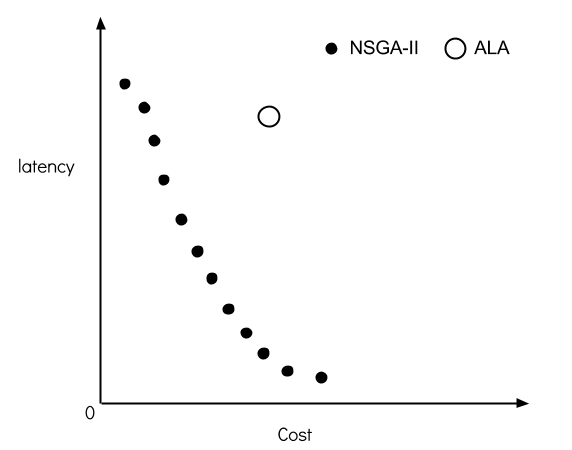
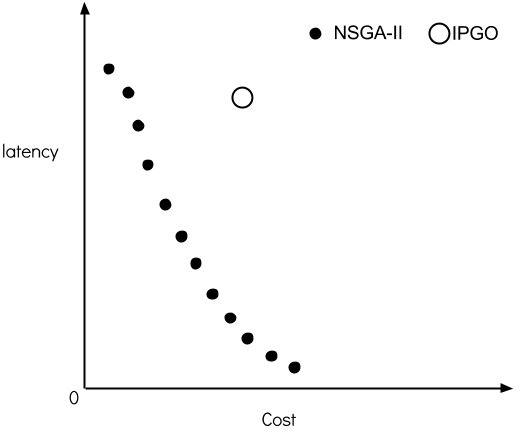
third draft

diff --git a/Draft/seal_v3.tex b/Draft/seal_v3.tex
@@ -72,8 +72,8 @@ Very few research study this problem, most of the researchers treat this problem
 In particular, \cite{Sun} has solved this problem by employ a modified Alternate Location-Allocation (ALA) algorithm. 
 However, essentially ALA build upon integer programming and greedy optimization. 
 As a result, the solution is easily stuck at local optima.
-Huang \cite{EnhancedGenetic} proposed an enhanced genetic algorithm (GA)-based  \cite{man1996genetic} approach which make use of the integer scalarization technique to solve this problem.
-GA is an Evolutionary algorithm (EA) that uses genetic operators to obtain optimal solutions without any assumptions about the search space.
+Huang \cite{EnhancedGenetic} proposed an enhanced genetic algorithm (GA)-based approach which make use of the integer scalarization technique to solve this problem.
+GA \cite{man1996genetic} is an Evolutionary algorithm (EA) that uses genetic operators to obtain optimal solutions without any assumptions about the search space.
 This algorithm solves the problem with one objective and one constraint, however there are a few disadvantages existed in
 integer scalarization technique \cite{Multiobjective}, which were discussed explicitly in Section \ref{sec:Background}.
 
@@ -123,15 +123,22 @@ The experimental design was discussed in Section \ref{sec:experiment}. The exper
 
 \section{Related Works and Background}
 \label{sec:Background}
-A few researchers attempt to solve the service location-allocation problem by using single objective approach.
-\cite{Multiobjective}
+A few researchers attempt to solve the service location-allocation problem by using single objective approach. Most of them solve this problem with linear programming approaches.
+\cite{5961695} consider more than 3 objectives: response time, availability and cost. It solves the placement of Datacenters for Internet Services with simulated annealing plus linear programming. Yi Sun and et.al proposed two approaches \cite{Aboolian} \cite{Sun} employ LP and ALA respectively. The first paper assumes the model is based on a duopoly competitive market.
+The second paper assumes multiple competition services have been established in the market.
+Some researchers use Evolutionary algorithms. Huang \cite{EnhancedGenetic} applied an enhanced GA algorithm which employ the integer scalarization technique \cite{Multiobjective}. However, 
+the integer scalarization technique has many disadvantages:
 \begin{enumerate}
 	\item The decision maker needs to choose an appropriate weights for the objectives to retrieve a satisfactorily solution.
 	\item The algorithm does not produce an uniform spread of points on the Pareto curve. That is, all points are grouped in certain parts of the Pareto front.
 	\item Non-convex parts of the Pareto set cannot be reached by minimizing convex combinations of the object functions.
 \end{enumerate}
+
+So far, there is no research consider the service location-allocation problem as a multi-objective problem. Therefore, this paper is the first attempt to solve this problem using 
+multi-objective algorithm.
+
 \subsection{NSGA-II}
-NSGA-II belong to the larger class of genetic algorithm (GA). GA is a powerful tool to solve combinatorial optimization problems. It is an iterative procedure based on a constant-size population. In a GA, a population of strings (called chromosomes
+NSGA-II \cite{996017} belong to the larger class of genetic algorithm (GA). GA \cite{man1996genetic} is a powerful tool to solve combinatorial optimization problems. It is an iterative procedure based on a constant-size population. In a GA, a population of strings (called chromosomes
 or the genotype of the genome), which are encoded as candidate solutions (called individuals, creatures, or phenotypes) to an optimization problem, evolves towards better solutions. 
 Each genome is associated with a fitness value based on a fitness function that indicates how close it comes to meeting the overall specification, when compared to other genomes in the
 population. The fitness value of an individual is also an indication of its chances of survival and reproduction in the next generation. A typical genetic algorithm requires a genetic
@@ -143,10 +150,21 @@ relatively well in both convergence and  computing speed. It permits a remarkabl
 performance assessment and design specification. NSGA-II assumes that every chromosome in the population has two 
 attributes: 1) a non-domination rank in the population, 2) a local crowding distance in the population. The goal of 
 NSGA-II is to converge to the Pareto front as possible and with even spread of the solutions on the front by 
-controlling the two attributes above.
+controlling the two attributes. 
+
+The algorithm starts with initialization population. Once the population is sorted based on non-domination sorting, rank is assigning to each chromosome.
+Then, a parameter called crowding distance is calculated for each individual. The crowding distance is a measure of how close an individual is to its neighbors. Large 
+average crowding distance will result in better diversity in the population. 
+
+Parents are selected from the population by using tournament selection based on the rank and crowding distance. An individual is selected in the rank is lesser than the other or 
+if crowding distance is greater than the other. The selected population generates offsprings from crossover and mutation operators. 
+
+The population with the current population and current offsprings is sorted again based on non-domination and only the best N individuals are selected, where N is the population size.
+The selection is based on rank and the on crowding distance on the last front.
+
 \subsection{Integer programming with Greedy Optimaization (IPGO)}
 
-For our problem, it could be model as an assignment problem. Linear assignment \cite{lawler1963quadratic} is a special case of the transpotation problem, which is a special case of the minimum cost flow problem, which
+Linear assignment \cite{lawler1963quadratic} is a special case of the transpotation problem, which is a special case of the minimum cost flow problem, which
 in turn is a special case of a linear program. It can be stated as follows: Given an $s \times j$ cost matrix $C = \| C_{sj} \|$, 
 determine an $s \times j$ solution matrix $A = \| A_{sj} \|$ so as to
 
@@ -155,7 +173,6 @@ determine an $s \times j$ solution matrix $A = \| A_{sj} \|$ so as to
        \mbox{Minimize } & \sum\limits_{s \in S} \sum\limits_{j \in J} C_{sj} \times A_{sj} \\
        \mbox{Subject to} & \\
 			& \sum\limits_{s} A_{sj} = 1 (s = 1, 2, ...),\\
-	        & \sum\limits_{s \in S} \sum\limits_{j \in J} C_{sj} \times A_{sj} \leq CostLimitation \\
 		\mbox{and } & A_{sj} = $0 or 1$ (s, j = 1, 2, ...) \\
      \end{align}
 \end{equation}
@@ -171,8 +188,6 @@ In order to solve multi-objective problem, IPGO first employ Integer programming
 uses a greedy procedure to optimize the other objective.
 
 
-Once a minimum cost solution is found by linear assignment, the solution set will be passed to the ADD procedure to serve as an initial solution for 
-further improvement on Network latency.
 
 
 \section{Problem Description and Modeling}
@@ -186,25 +201,15 @@ In this paper, to optimize service performance we consider to minimize network l
 The task of service location allocation has two objectives:
 \begin{itemize}
 	\item To minimize the total cost of the services.
-		\begin{equation}
-     		\begin{align}
-       			\mbox{Minimize } & \sum\limits_{s \in S} \sum\limits_{j \in J} C_{sj} \times A_{sj} \\
-			\end{align}
-		\end{equation}
 	\item To minimize the total network latency of the services.
-		\begin{equation}
-     		\begin{align}
-				\mbox{Minimize } & \sum\limits_{s \in S} Latency_{s} \\
-			\end{align}
-		\end{equation}
 \end{itemize}
 
 
 \subsection{Model Formulation}
 To model service location-allocation problem we need make use of a set of matrix, to present input information and output solutions. 
 
-Let $S = \{ s_{1}, s_{2}, ..., s_{s}\}$ be the set of services. We assume that the demand for service is concentrated at $i$ 
-demand nodes $I = \{ i_{1}, i_{2}, ..., i_{i} \}$. Let $J = \{ j_{1}, j_{2}, ..., j_{j} \}$ be the set of $j$ candidate facility locations.
+Let $S = \{ s_{1}, s_{2}, ..., s_{s}\}$ be the set of services. We assume that the demand for service is concentrated at a set of 
+demand nodes $I = \{ i_{1}, i_{2}, ..., i_{i} \}$. Let $J = \{ j_{1}, j_{2}, ..., j_{j} \}$ be the set of candidate facility locations.
 To model the service location-allocation problem we use four matrices: service network latency matrix $L$, service location
 matrix $A$, service invocation frequency matrix $F$ and cost matrix $C$.
 
@@ -233,7 +238,7 @@ $
 L = \bbordermatrix{~ & j_{1} & j_{2} & j_{3} \cr
 					i_{1}	&0 &5.776 &6.984	\cr
 					i_{2}	&5.776  &0 &2.035 \cr
-					i_{3}	&0.984 &1.135	&2.3 \cr} 
+					i_{3}	&0.984 &1.135	&2.3 \cr}
 $
 \end{center}
 The service location matrix $A = [a_{sj}]$ represents the actual service location-allocation, where $a_{sj}$  is a binary value ( i.e. 1 or 0).
@@ -242,7 +247,7 @@ $
 A = \bbordermatrix{~ & j_{1} & j_{2} & j_{3}\cr
 					s_{1}	&0 &1 &0	\cr
 					s_{2}	&0  &0 &1	\cr
-					s_{3}	&1 &1 &0	\cr} 
+					s_{3}	&1 &1 &0	\cr}
 $
 \end{center}
 
@@ -254,7 +259,7 @@ $
 F = \bbordermatrix{~ & s_{1} & s_{2} & s_{3}  \cr
 					i_{1}	&120 &35 &56	\cr
 					i_{2}	&14  &67 &24 \cr
-					i_{3}	&85 &25 &74 \cr} 
+					i_{3}	&85 &25 &74 \cr}
 $
 \end{center}
 
@@ -266,7 +271,7 @@ $
 C = \bbordermatrix{~ & j_{1} & j_{2} & j_{3}\cr
 					s_{1}	&130 &80 &60\cr
 					s_{2}	&96  &52 &86\cr
-					s_{3}	&37 &25 &54\cr} 
+					s_{3}	&37 &25 &54\cr}
 $
 \end{center}
 
@@ -356,7 +361,7 @@ $C_{sj}$ and $A_{sj}$ derives the total cost of the deployment plan.
 
 There are some assumptions we made of network latency. First, we assume
 the latency = 0 if the service is deployed locally. That is, if the service is deployed in the user center $i$. Then, the 
-invocation from $i$ to the service has no latency. The second assumption is the latency is symmetrical between cities. e.g. 
+invocation from $i$ to the service has no latency. The second assumption is the latency is symmetrical between user center and candidate location. e.g. 
 The latency from location $i$ to location $j$ is same with the latency from location $j$ to location $i$. Thirdly, the total invocation are equally
 contributed by user centers. In other words, we assume each user center has same invocation to a service.
 
@@ -460,8 +465,9 @@ partially because the randomly chosen of canceling deployment. On the other hand
 the predefine upper boundary of cost limitation is too low.
 
 \section{IPGO for Web Service Location Allocation}
- It can be stated as follows: Given an $s \times j$ cost matrix $C = \| C_{sj} \|$, 
-determine an $s \times j$ solution matrix $A = \| A_{sj} \|$ so as to
+In order to solve the location allocation problem with IPGO. We model the model the cost objective as the priority, optimize with Linear programming.
+The cost matrix $C$ and solution matrix $A$ are identical with the two matrices defined in Section \ref{sec:problem}. We use the same fitness functions as in NSGA-II to 
+evaluate the Cost objective and Latency objective.
 
 \begin{equation}
      \begin{align}
@@ -472,6 +478,9 @@ determine an $s \times j$ solution matrix $A = \| A_{sj} \|$ so as to
 		\mbox{and } & A_{sj} = $0 or 1$ (s, j = 1, 2, ...) \\
      \end{align}
 \end{equation}
+
+Once a minimum cost solution is found by linear assignment, the solution set will be passed to the ADD procedure to serve as an initial solution for 
+further improvement on Network latency.
 
  The ADD procedure as follows:
 \begin{itemize}
@@ -524,35 +533,30 @@ population has evolved 50 generation.
 \end{center}
 \end{table}
 
-
-
-
-
-
-\subsection{Result Analysis}
-In order to compare the solution set from  NSGA-II and a single solution from IPGO, we employ non-dominated Pareto front
-\cite{Xue} and Dominance Relation \cite{1688438}.
-40 results (from 40 runs) under each cost constraint are presented in the Section \ref{sec:comparison}. 40 sets of solutions 
+\subsection{Case Study}
+To compare with the result of NSGA-II and IPGO, we derive the Pareto front by using Xue's approach \cite{Xue}. Then take the approach from \cite{1688438} to 
+compare the results.
+In Xue's approach, NSGA-II generate 40 results (from 40 runs) under each cost constraint are presented in the Section \ref{sec:comparison}. 40 sets of solutions 
 achieved by each multi-objective algorithm are firstly combined into one union set. In the union set, the non-dominated solutions 
 are presented to compare with the solutions achieved by IPGO.
 
 \begin{figure}[H]
 	\centering
-	\begin{subfigure}[b]{0.4\textwidth}
+	\begin{subfigure}[b]{0.49\textwidth}
 		\includegraphics[width=\textwidth]{pics/1.png}
 		\caption{}
 	\end{subfigure}
-	\begin{subfigure}[b]{0.4\textwidth}
+	\begin{subfigure}[b]{0.49\textwidth}
 		\includegraphics[width=\textwidth]{pics/2.png}
 		\caption{}
 	\end{subfigure}
 
 
-	\begin{subfigure}[b]{0.4\textwidth}
+	\begin{subfigure}[b]{0.49\textwidth}
 		\includegraphics[width=\textwidth]{pics/3.png}
 		\caption{}
 	\end{subfigure}
-	\begin{subfigure}[b]{0.4\textwidth}
+	\begin{subfigure}[b]{0.49\textwidth}
 		\includegraphics[width=\textwidth]{pics/4.png}
 		\caption{}
 	\end{subfigure}
@@ -661,24 +665,24 @@ processes will reach a maximum number. Therefore, the time consuming increases l
 \label{sec:comparison}
 \begin{figure}[H]
 	\centering
-	\begin{subfigure}[b]{0.4\textwidth}
+	\begin{subfigure}[b]{0.49\textwidth}
 		\includegraphics[width=\textwidth]{pics/105.png}
 		\caption{$3 \times 3$}
 		\label{fig:3_3}
 	\end{subfigure}%
-	\begin{subfigure}[b]{0.4\textwidth}
+	\begin{subfigure}[b]{0.49\textwidth}
 		\includegraphics[width=\textwidth]{pics/107.png}
 		\caption{$5 \times 5$}
 		\label{fig:5_5}
 	\end{subfigure}
 
 
-	\begin{subfigure}[b]{0.4\textwidth}
+	\begin{subfigure}[b]{0.49\textwidth}
 		\includegraphics[width=\textwidth]{pics/111.png}
 		\caption{$10 \times 10$}
 		\label{fig:10_10}
 	\end{subfigure}
-	\begin{subfigure}[b]{0.4\textwidth}
+	\begin{subfigure}[b]{0.49\textwidth}
 		\includegraphics[width=\textwidth]{pics/112.png}
 		\caption{$15 \times 15$}
 		\label{fig:15_15}
